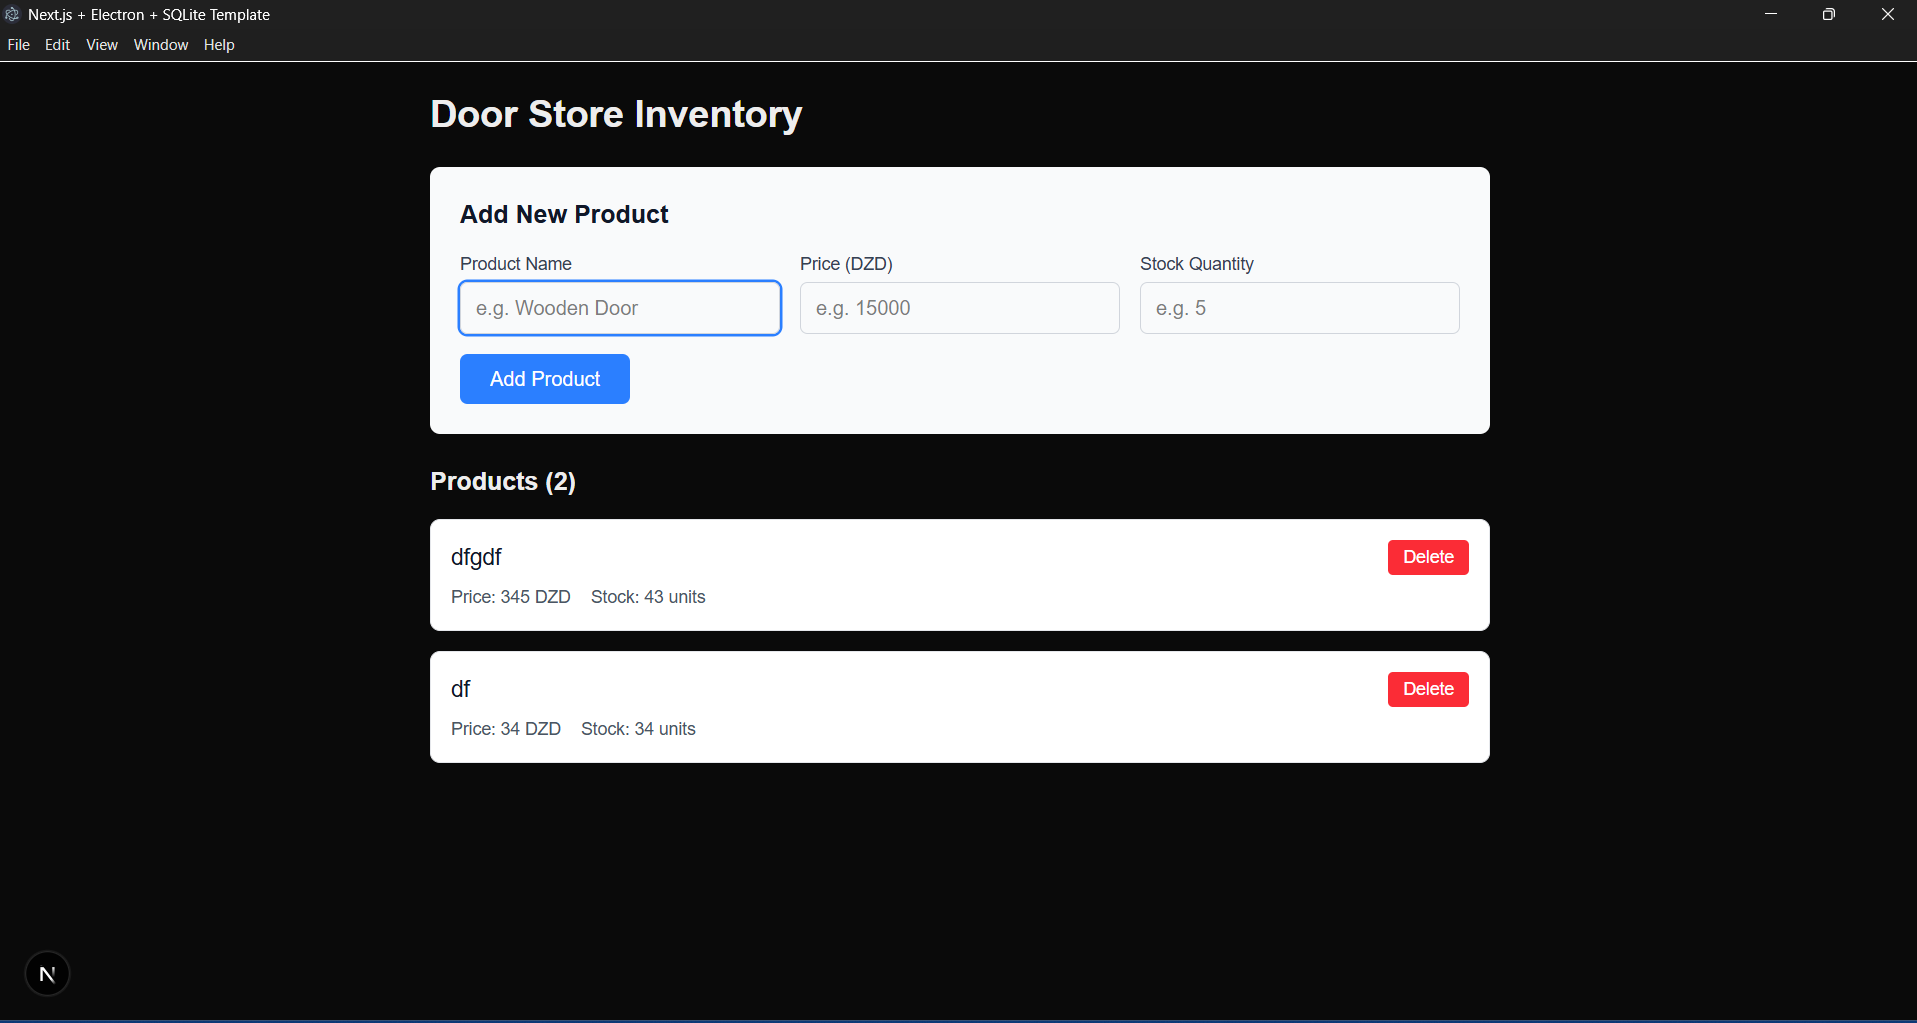
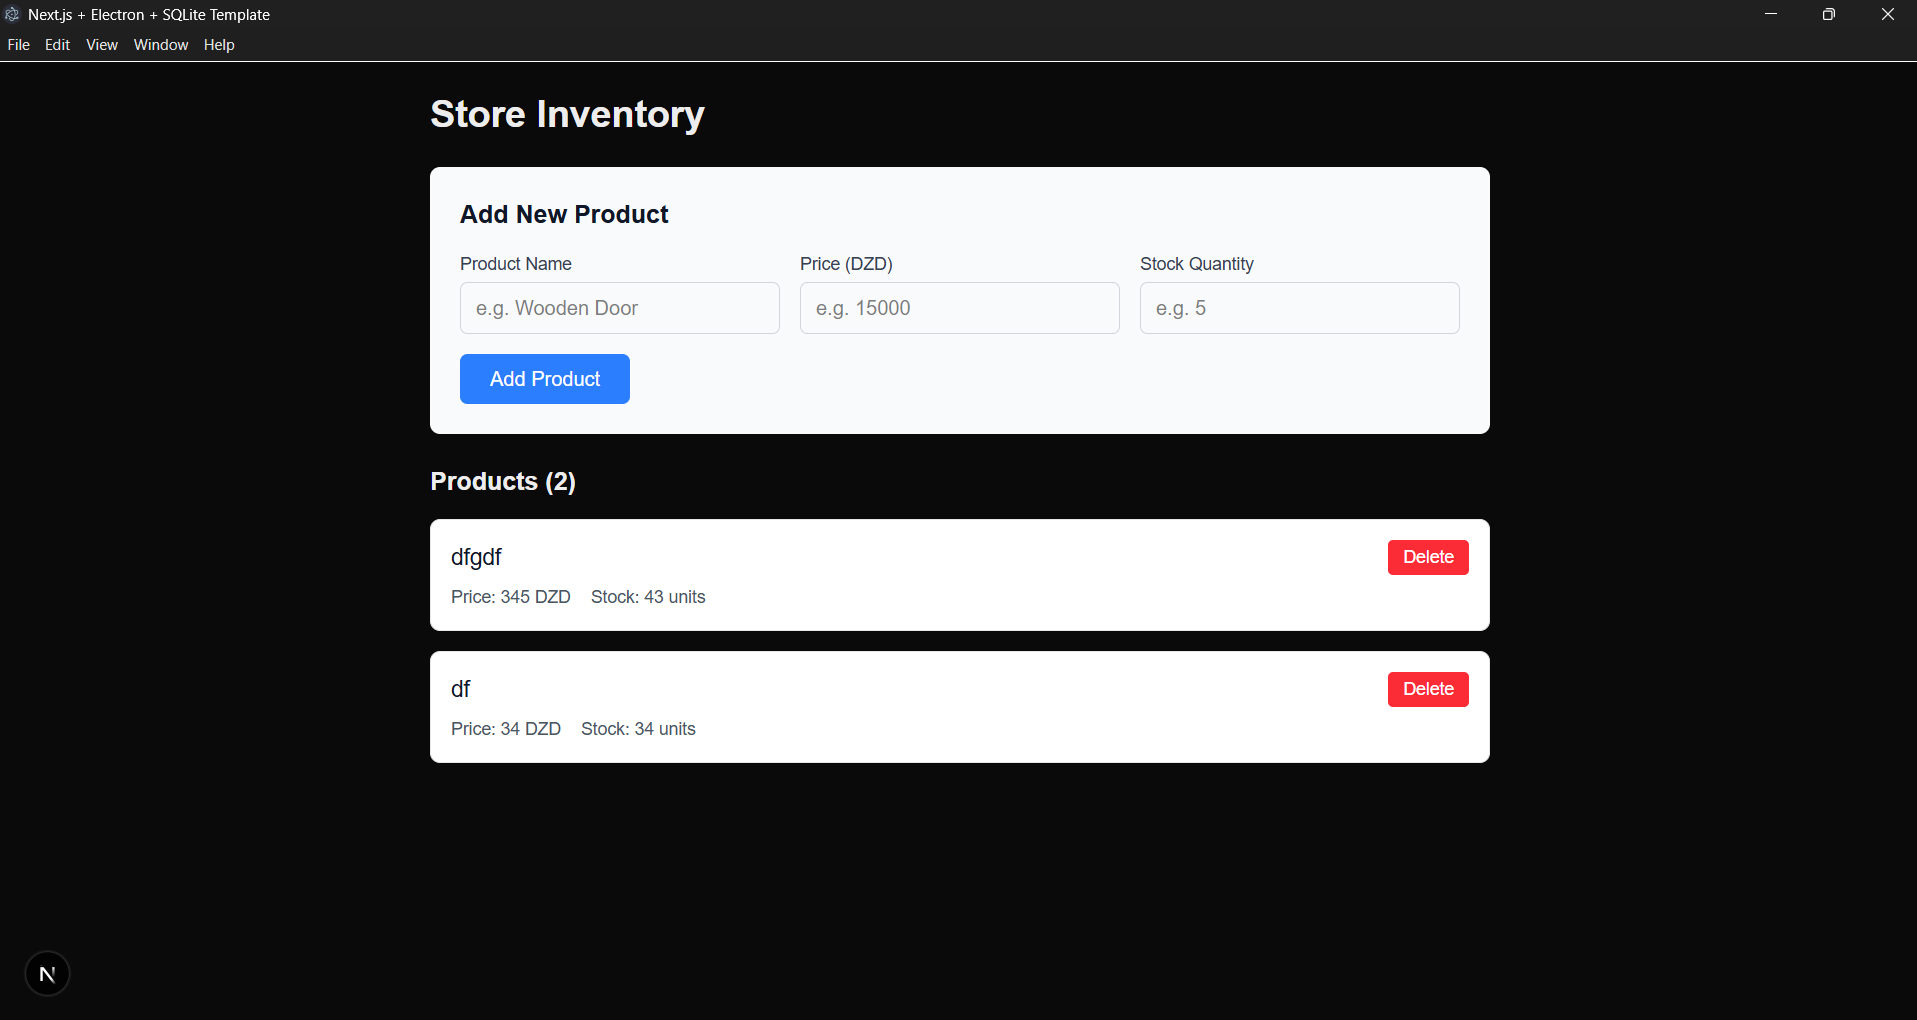
changes to readme

diff --git a/src/app/page.tsx b/src/app/page.tsx
@@ -81,7 +81,7 @@ export default function ProductsPage() {
 
   return (
     <div className="p-6 max-w-4xl mx-auto">
-      <h1 className="text-3xl font-bold mb-6">Door Store Inventory</h1>
+      <h1 className="text-3xl font-bold mb-6">Store Inventory</h1>
 
       {/* Add Product Form */}
       <div className="bg-gray-50 p-6 rounded-lg mb-6">

diff --git a/README.md b/README.md
@@ -55,7 +55,7 @@ A modern desktop application template built with **Next.js**, **Electron**, and 
 1. **Clone the repository**
 
    ```bash
-   git clone https://github.com/yourusername/door-store-app.git
+   git clone https://github.com/islamdev2022/Next.js-Electron-SQLite-Template
    cd door-store-app
    ```
 
@@ -97,7 +97,6 @@ door-store-app/
 ├── package.json             # Dependencies and scripts
 ├── next.config.ts           # Next.js configuration
 ├── tsconfig.json           # TypeScript configuration
-└── tailwind.config.js      # Tailwind CSS configuration
 ```
 
 ## 📋 Available Scripts
@@ -120,7 +119,7 @@ The app uses Electron's IPC (Inter-Process Communication) for secure communicati
 ```typescript
 // Add product
 await window.electronAPI.addProduct({
-  name: "Wooden Door",
+  name: "product name",
   price: 15000,
   stock: 5,
 });
